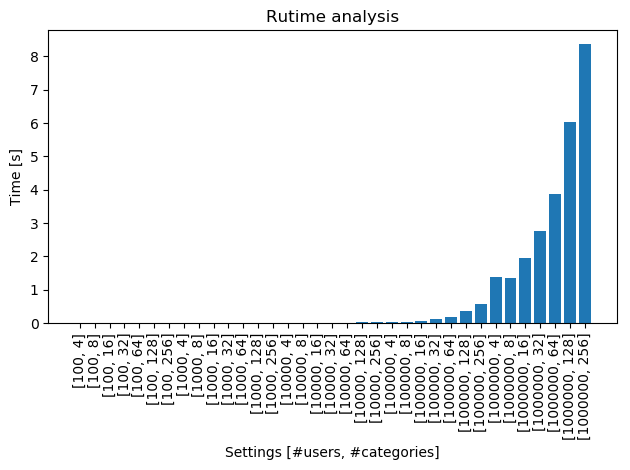
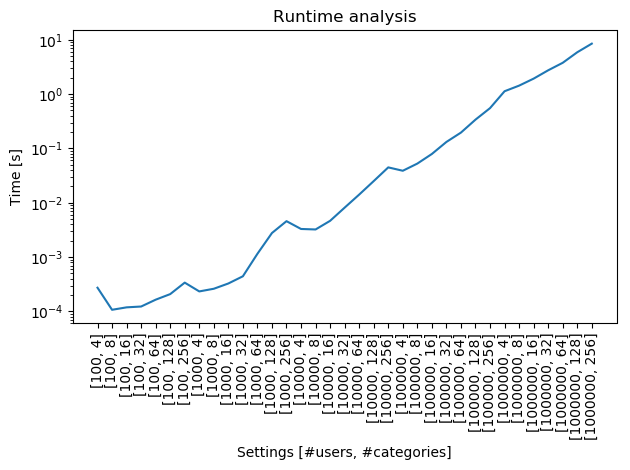
Updated plots

diff --git a/src/match.py b/src/match.py
@@ -3,7 +3,7 @@ import matplotlib.pyplot as plt
 from scipy import spatial
 from timeit import default_timer as timer
 
-plot_runtime = False
+plot_runtime = True
 
 if plot_runtime:
     n1 = 4
@@ -30,12 +30,15 @@ if plot_runtime:
     ax = plt.gca()
     ax.set_xlabel('Settings [#users, #categories]')
     ax.set_ylabel('Time [s]')
-    ax.set_title('Rutime analysis')
+    ax.set_title('Runtime analysis')
 
     plt.semilogy(range(len(stats)), stats)
     plt.xticks(np.arange(n1*n2), stats_settings, rotation=90)
     plt.show()
-    fig.savefig('runtime.png', bbox_inches='tight')
+    fig.savefig('runtime_semilog.png', bbox_inches='tight')
+    plt.bar(range(len(stats)), stats)
+    plt.show()
+    fig.savefig('runtime_bar.png', bbox_inches='tight')
 
 # small example
 n = 1000
